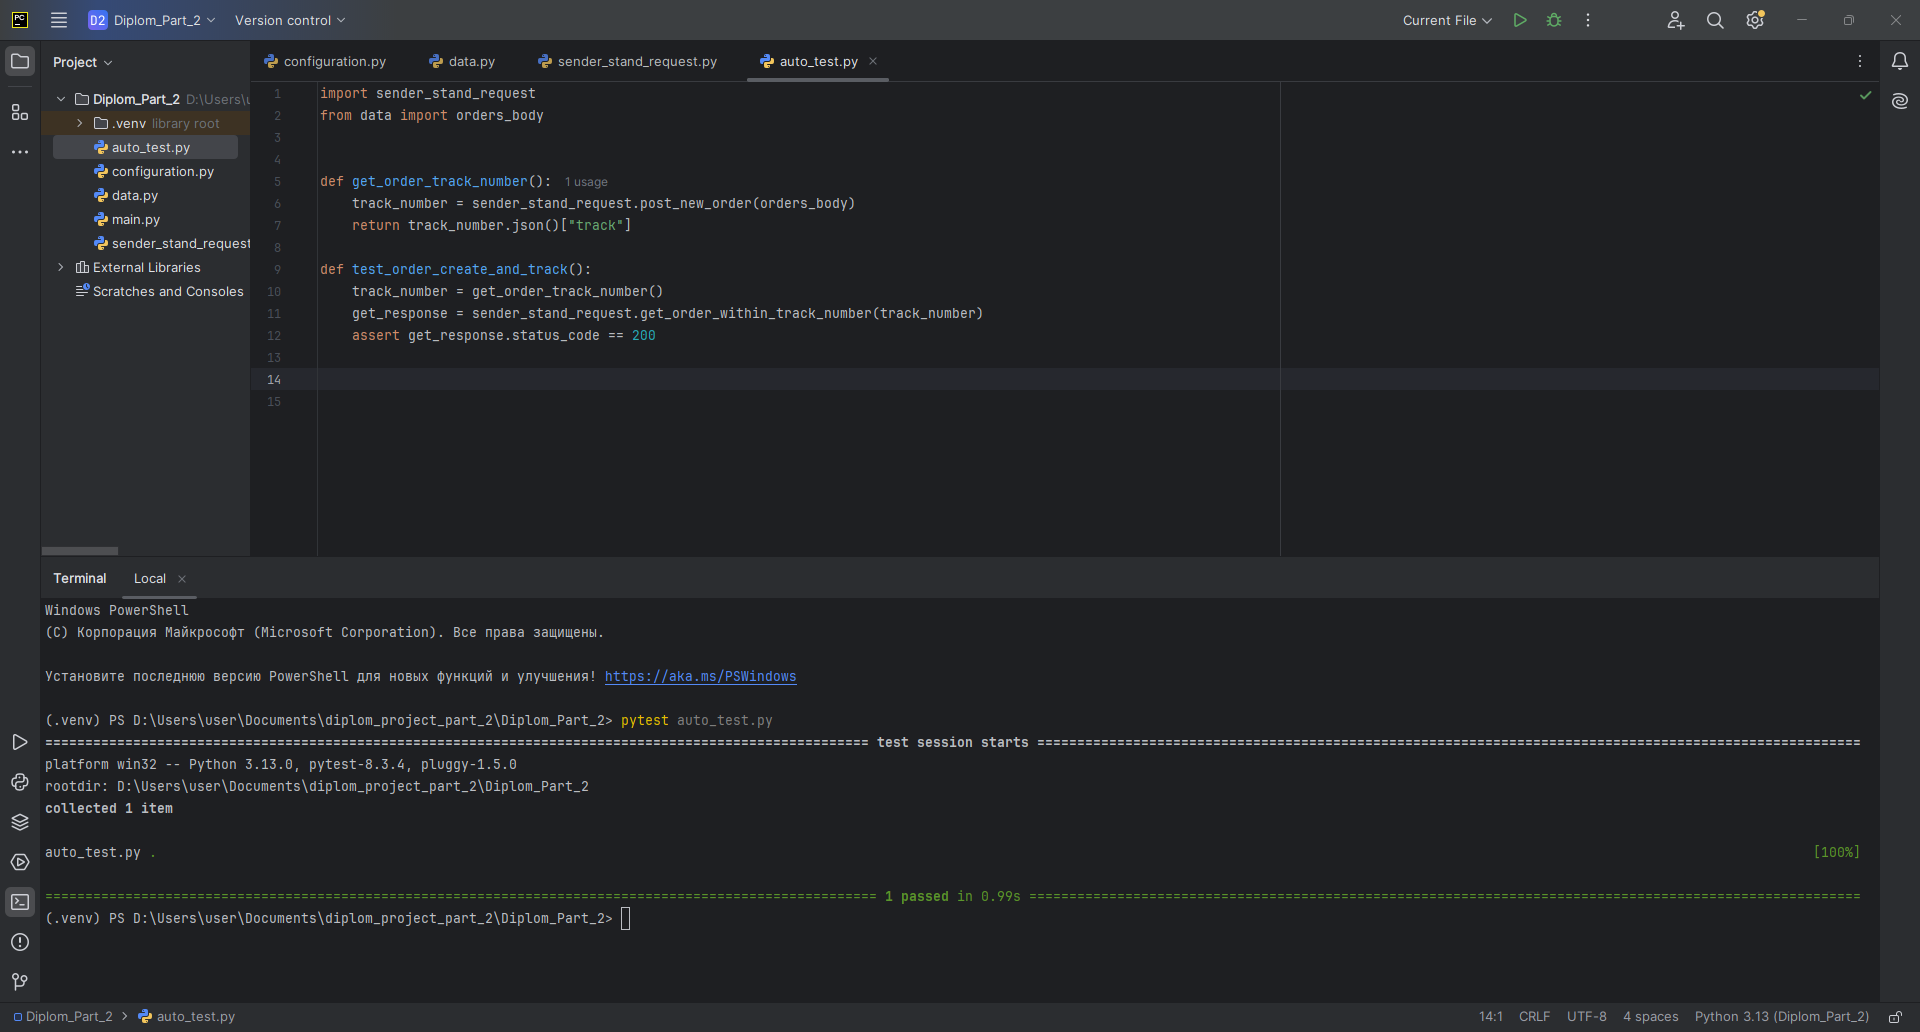
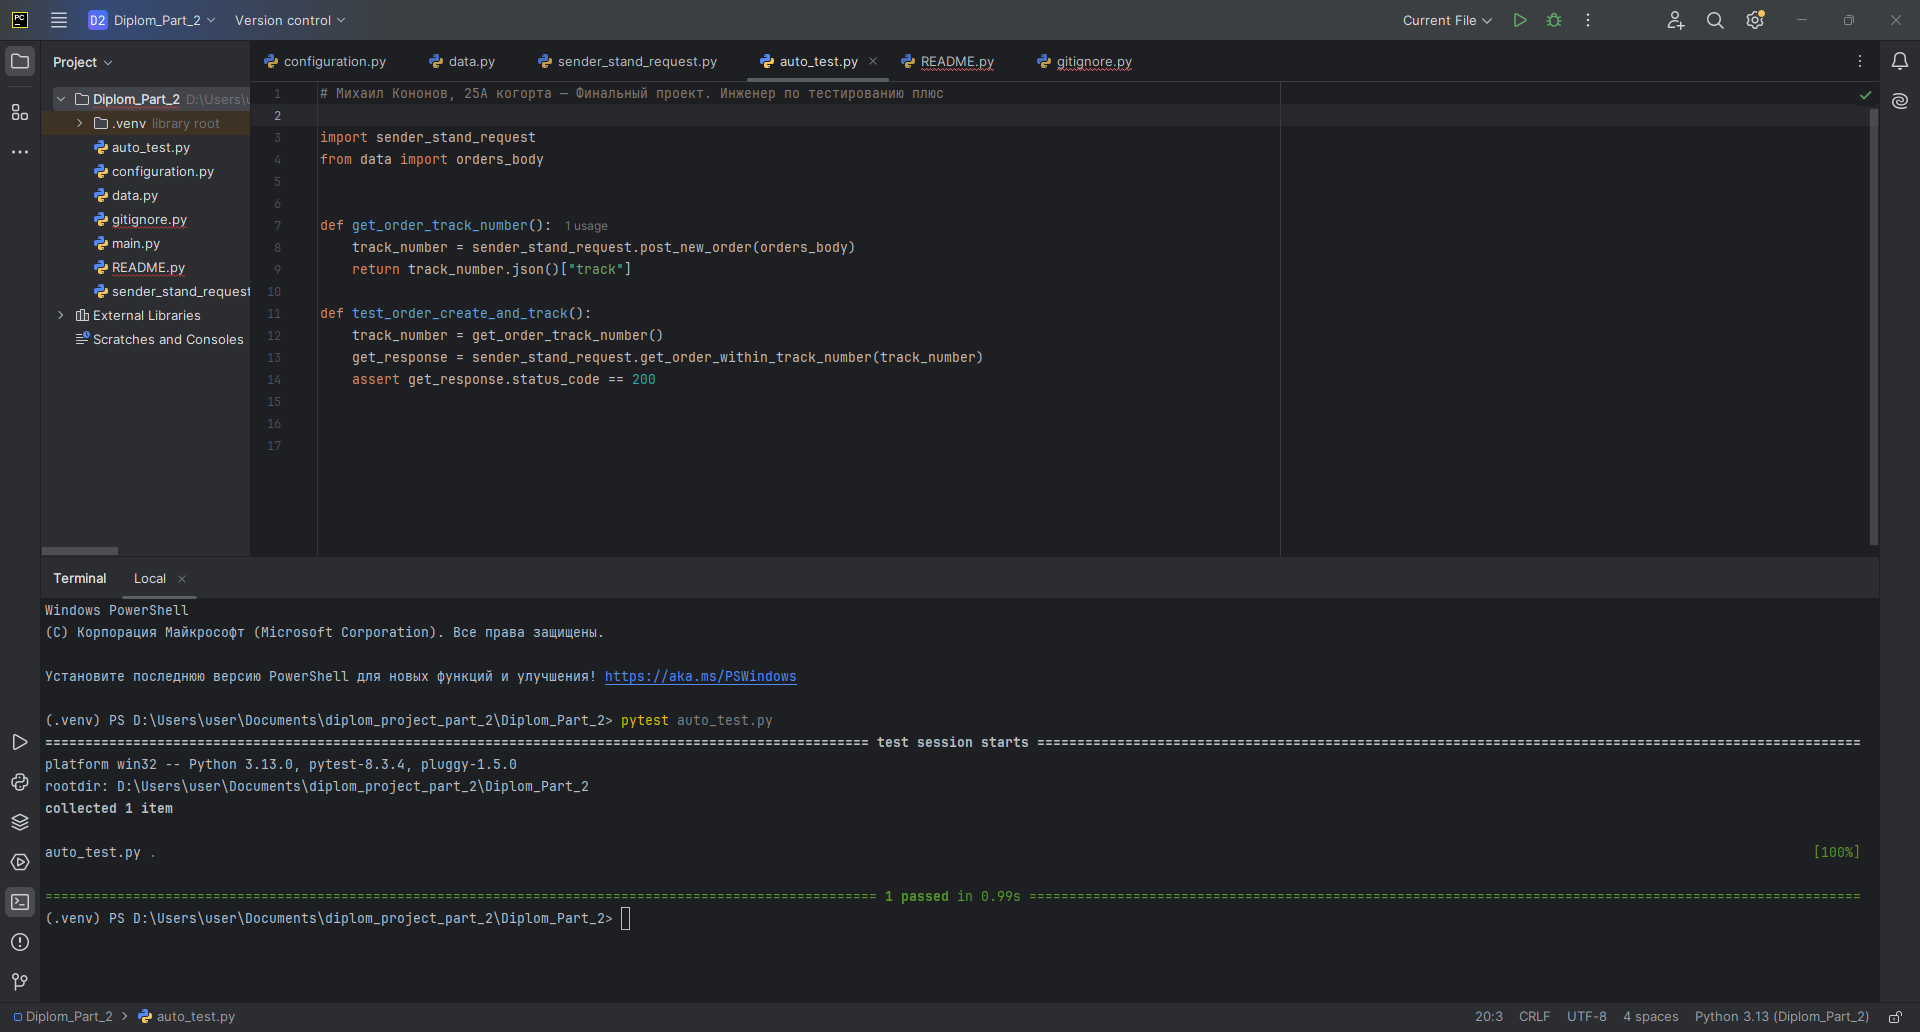
Add files via upload

diff --git a/configuration.py b/configuration.py
@@ -1,3 +1,5 @@
+# Михаил Кононов, 25А когорта — Финальный проект. Инженер по тестированию плюс
+
 # URL_SERVICE хранит базовый URL веб-сервиса "Самокат", который используется для доступа к API или другим ресурсам.
 # Сюда копируется сгенерированный URL учебного Сервера, без слэша в конце.
 URL_SERVICE = "https://aef3d5bb-0c14-41fd-82d9-82f81112e729.serverhub.praktikum-services.ru"

diff --git a/sender_stand_request.py b/sender_stand_request.py
@@ -1,3 +1,5 @@
+# Михаил Кононов, 25А когорта — Финальный проект. Инженер по тестированию плюс
+
 # Импорт настроек из модуля/файла configuration, который содержит параметры конфигурации, такие как URL сервиса
 import configuration
 # Импорт библиотеки requests для выполнения HTTP-запросов

diff --git a/data.py b/data.py
@@ -1,3 +1,5 @@
+# Михаил Кононов, 25А когорта — Финальный проект. Инженер по тестированию плюс
+
 # Заголовки для HTTP-запроса, указывающие на то, что тело запроса будет в формате JSON.
 # Запрос с данными заказчика для создания заказа.
 orders_body = {

diff --git a/README.py b/README.py
@@ -1,4 +1,5 @@
-# Диплом
+# Михаил Кононов, 25А когорта — Финальный проект. Инженер по тестированию плюс
+
 - Для запуска тестов должны быть установлены пакеты pytest и requests
 - Запуск всех тестов выполняется командой pytest
 

diff --git a/auto_test.py b/auto_test.py
@@ -1,3 +1,5 @@
+# Михаил Кононов, 25А когорта — Финальный проект. Инженер по тестированию плюс
+
 import sender_stand_request
 from data import orders_body
 

diff --git a/gitignore.py b/gitignore.py
@@ -1,3 +1,5 @@
+# Михаил Кононов, 25А когорта — Финальный проект. Инженер по тестированию плюс
+
 .pytest/
 venv/
 .idea/
